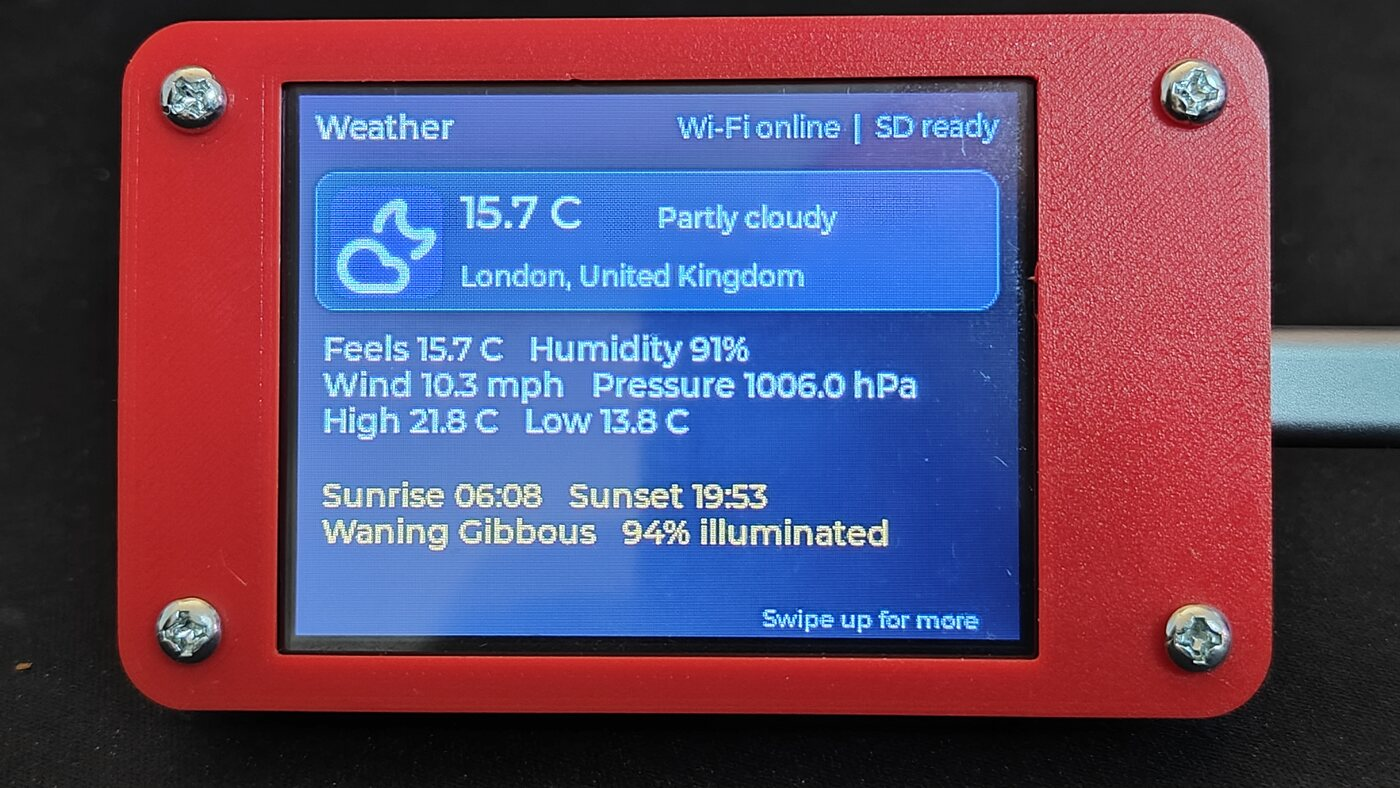
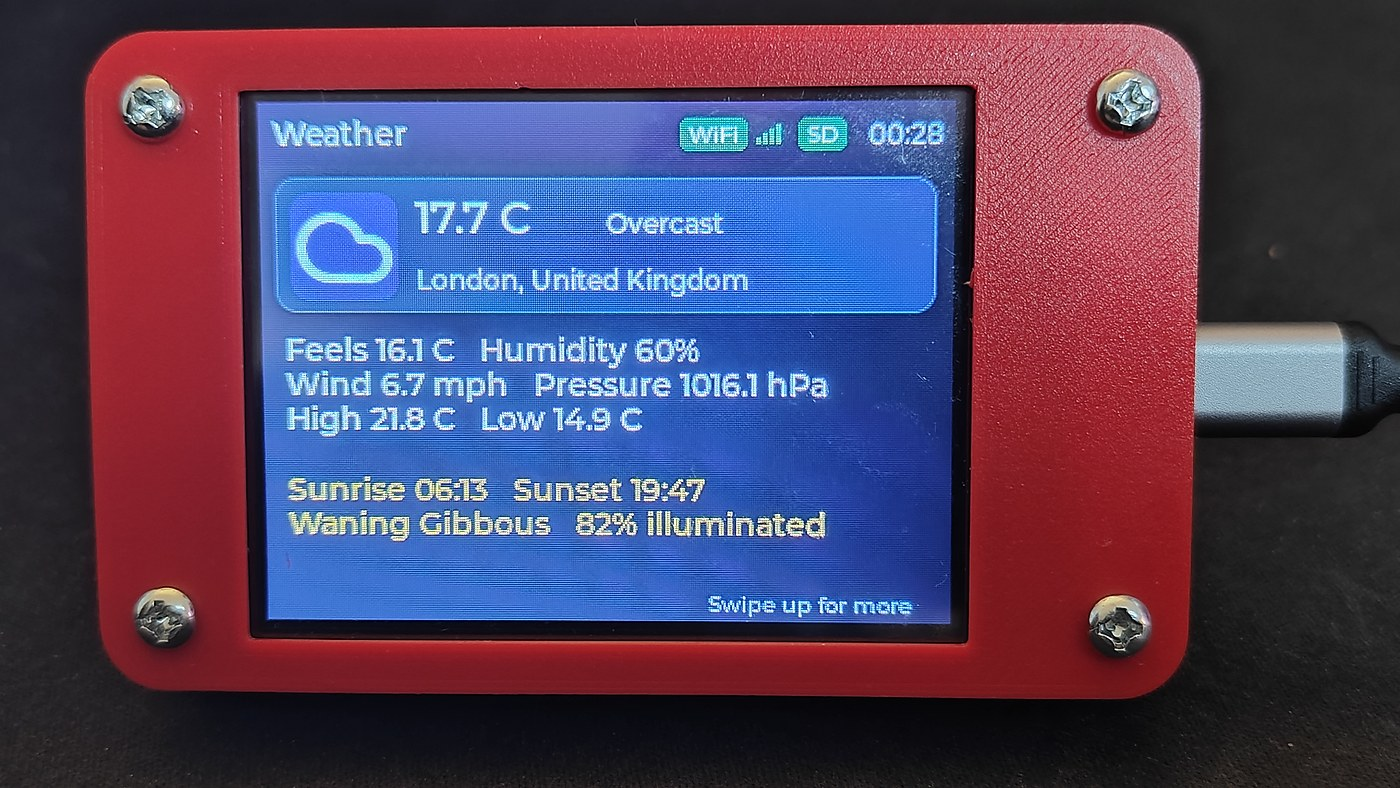
Refresh weather documentation photos
Copilot-Session: 6a152d29-64ff-4893-8011-400d2df24404

diff --git a/docs/SCREENSHOTS.md b/docs/SCREENSHOTS.md
@@ -11,6 +11,7 @@ camera metadata, and edited where necessary to hide local names and addresses.
 | `docs/images/startup-screen.jpg` | Startup artwork |
 | `docs/images/home-screen.jpg` | Home tile grid |
 | `docs/images/weather-screen.jpg` | Weather |
+| `docs/images/weather-details-screen.jpg` | Weather details and provider credit |
 | `docs/images/flights-screen.jpg` | Flights radar |
 | `docs/images/aircraft-screen.jpg` | Aircraft details |
 | `docs/images/aircraft-no-photo-screen.jpg` | Aircraft details without an available photograph |

diff --git a/docs/FEATURES.md b/docs/FEATURES.md
@@ -41,6 +41,11 @@ Temperature, wind, and pressure units are configurable.
 
 ![Weather conditions and astronomy screen](images/weather-screen.jpg)
 
+Swipe upward to reveal the provider credit while keeping the detailed
+conditions and astronomy visible.
+
+![Weather details with Open-Meteo provider credit](images/weather-details-screen.jpg)
+
 ## Flights
 
 Flights works without another computer or local receiver. It supports:
